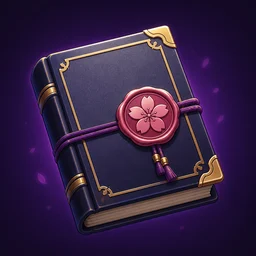
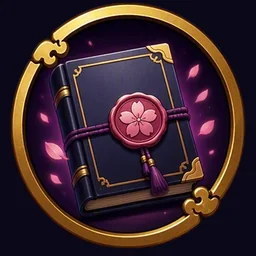
feat: 把 Meowa UI 接到大厅、寻访、商店和档案
替换五格导航、大厅宽背景、寻访 banner 与卡背，并用夜景房底和神社顶栏换商店/档案抽屉皮。不改存档键，不包装 update。

diff --git a/src/runtime/sakurayo-lobby.js b/src/runtime/sakurayo-lobby.js
@@ -196,8 +196,8 @@
     "html,body{width:100%;height:100%;overscroll-behavior:none}" +
     ".homeNav46{display:grid!important;grid-template-columns:repeat(5,minmax(0,1fr))!important;gap:6px}" +
     ".homeNav46 button{min-height:58px;padding:8px 2px;border-radius:14px;border:1px solid #ff9bcc55;background:linear-gradient(180deg,#2a183ef2,#120c22f5);color:#fff8fb;font:800 11px/1.15 system-ui;letter-spacing:.06em}" +
-    ".homeNav46 button span{display:grid;place-items:center;width:28px;height:28px;margin:0 auto 4px;border-radius:9px;background:#ff72b428;color:#ffe6f3;font-size:12px;overflow:visible}" +
-    ".homeNav46 button span img{display:block!important;width:100%;height:100%;border-radius:8px;object-fit:cover;visibility:visible;opacity:1}" +
+    ".homeNav46 button span{display:grid;place-items:center;width:36px;height:36px;margin:0 auto 4px;border-radius:50%;background:transparent;color:#ffe6f3;font-size:12px;overflow:visible}" +
+    ".homeNav46 button span img{display:block!important;width:100%;height:100%;border-radius:50%;object-fit:cover;visibility:visible;opacity:1}" +
     "#menu.homeDock46 .start,#menu .start{background:linear-gradient(180deg,#ffe7b0 0%,#ff74c8 26%,#c13bff 66%,#6a28ff 100%);border:1px solid #ffe6a3aa;box-shadow:0 14px 40px #ff4ea888,0 0 28px #ffe08a40,inset 0 1px #fff8;font-weight:1000;letter-spacing:.42em;text-shadow:0 2px 10px #3a106688}" +
     "#menu.homeDock46 .heroLive46{left:0;right:auto;overflow:hidden}" +
     "#archiveDrawer .archiveDock46{display:grid;gap:10px}" +
@@ -339,8 +339,10 @@
     "@media(prefers-reduced-motion:reduce){.wishStage46:before,.wishPetals46 i,.revealInner46,.revealFace46.front:after,.revealCard46.r-SSR.flipped .revealFace46.front{animation:none;transition:none}}";
 
   var ROOM_CSS =
-    "#shopDrawer,#stageDrawer,#archiveDrawer,#talentDrawer,#storyDrawer,#ascDrawer,#achDrawer{background:radial-gradient(circle at 16% 0,#ff72b42e 0%,#1a1030 38%,#060410 100%)}" +
-    "#shopDrawer>.dhead,#stageDrawer>.dhead,#archiveDrawer>.dhead,#talentDrawer>.dhead,#storyDrawer>.dhead,#ascDrawer>.dhead,#achDrawer>.dhead{max-width:none;width:100%;box-sizing:border-box;margin:0 0 10px;padding:8px 4px 10px;border-bottom:1px solid #ffe6a344;background:linear-gradient(180deg,#1a1238cc,#0b081800)}" +
+    "#shopDrawer,#stageDrawer,#archiveDrawer,#talentDrawer,#storyDrawer,#ascDrawer,#achDrawer{background-color:#060410}" +
+    "#shopDrawer.room46,#stageDrawer.room46,#archiveDrawer.room46,#talentDrawer.room46,#storyDrawer.room46,#ascDrawer.room46,#achDrawer.room46{background-repeat:no-repeat;background-size:cover;background-position:center 28%}" +
+    "#shopDrawer>.dhead,#stageDrawer>.dhead,#archiveDrawer>.dhead,#talentDrawer>.dhead,#storyDrawer>.dhead,#ascDrawer>.dhead,#achDrawer>.dhead{max-width:none;width:100%;box-sizing:border-box;margin:0 0 10px;padding:10px 4px 12px;border-bottom:1px solid #ffe6a344;background:linear-gradient(180deg,#1a1238cc,#0b081800)}" +
+    "#shopDrawer.room46>.dhead,#stageDrawer.room46>.dhead,#archiveDrawer.room46>.dhead,#talentDrawer.room46>.dhead,#storyDrawer.room46>.dhead,#ascDrawer.room46>.dhead,#achDrawer.room46>.dhead{background-repeat:no-repeat;background-size:100% auto;background-position:center top}" +
     "#shopDrawer>.dhead h2,#stageDrawer>.dhead h2,#archiveDrawer>.dhead h2,#talentDrawer>.dhead h2,#storyDrawer>.dhead h2,#ascDrawer>.dhead h2,#achDrawer>.dhead h2{letter-spacing:.18em;color:#fff7fb;text-shadow:0 0 16px #ff9bcc66}" +
     "#shopDrawer>.dhead .close,#stageDrawer>.dhead .close,#archiveDrawer>.dhead .close,#talentDrawer>.dhead .close,#storyDrawer>.dhead .close,#ascDrawer>.dhead .close,#achDrawer>.dhead .close{border:1px solid #ffe6a355;background:#0b0818cc;color:#fff7fb}" +
     "#shopDrawer>.dbody,#stageDrawer>.dbody,#archiveDrawer>.dbody,#talentDrawer>.dbody,#storyDrawer>.dbody,#ascDrawer>.dbody,#achDrawer>.dbody{max-width:920px}" +

diff --git a/src/index.html b/src/index.html
@@ -7496,6 +7496,32 @@ window.SAKURAYO_GAME_VERSION = "4.6.0";
     bg.style.backgroundSize="cover";
     $("#menu")?.classList.add("lobbyWide46");
   }
+  function paintRoomBgs46(){
+    const night=path=>`linear-gradient(180deg,#05051299 0%,#080713c8 58%,#080713f2 100%),url("${artUrl(path)}")`;
+    const head=path=>`linear-gradient(180deg,#0b081888,#0b081800 72%),url("${artUrl(path)}")`;
+    [
+      ["shopDrawer","ui/shop_room.webp","ui/shop_header.webp"],
+      ["stageDrawer","ui/shop_room.webp","ui/shop_header.webp"],
+      ["archiveDrawer","ui/archive_room.webp","ui/archive_header.webp"],
+      ["talentDrawer","ui/archive_room.webp","ui/archive_header.webp"],
+      ["storyDrawer","ui/archive_room.webp","ui/archive_header.webp"],
+      ["ascDrawer","ui/archive_room.webp","ui/archive_header.webp"],
+      ["achDrawer","ui/archive_room.webp","ui/archive_header.webp"]
+    ].forEach(([id,room,header])=>{
+      const el=$(`#${id}`);
+      if(!el)return;
+      el.classList.add("room46");
+      el.style.backgroundImage=night(room);
+      el.style.backgroundSize="cover";
+      el.style.backgroundPosition="center 28%";
+      const dh=el.querySelector(":scope > .dhead");
+      if(!dh||!header)return;
+      dh.style.backgroundImage=head(header);
+      dh.style.backgroundSize="100% auto";
+      dh.style.backgroundPosition="center top";
+      dh.style.backgroundRepeat="no-repeat";
+    });
+  }
   function bindStageModes46(){
     const L=window.SakurayoLobby;
     const box=$("#stageList");
@@ -7560,7 +7586,7 @@ window.SAKURAYO_GAME_VERSION = "4.6.0";
     }
     wireLivePuppet46();
     L.dressArchive($("#archiveDrawer .archiveDock46"));
-    ["shopDrawer","stageDrawer","archiveDrawer"].forEach(id=>$(`#${id}`)?.classList.add("room46"));
+    paintRoomBgs46();
     const _openDrawer46=openDrawer;
     openDrawer=function(n){
       _openDrawer46(n);
@@ -7608,6 +7634,7 @@ window.SAKURAYO_GAME_VERSION = "4.6.0";
       if(runMode36==="testimony"&&$("#sdesc")) $("#sdesc").textContent="证词模式 · 不发放升级卡";
       refreshLobby46();
       paintHomeBg46();
+      paintRoomBgs46();
       return result;
     };
   }
